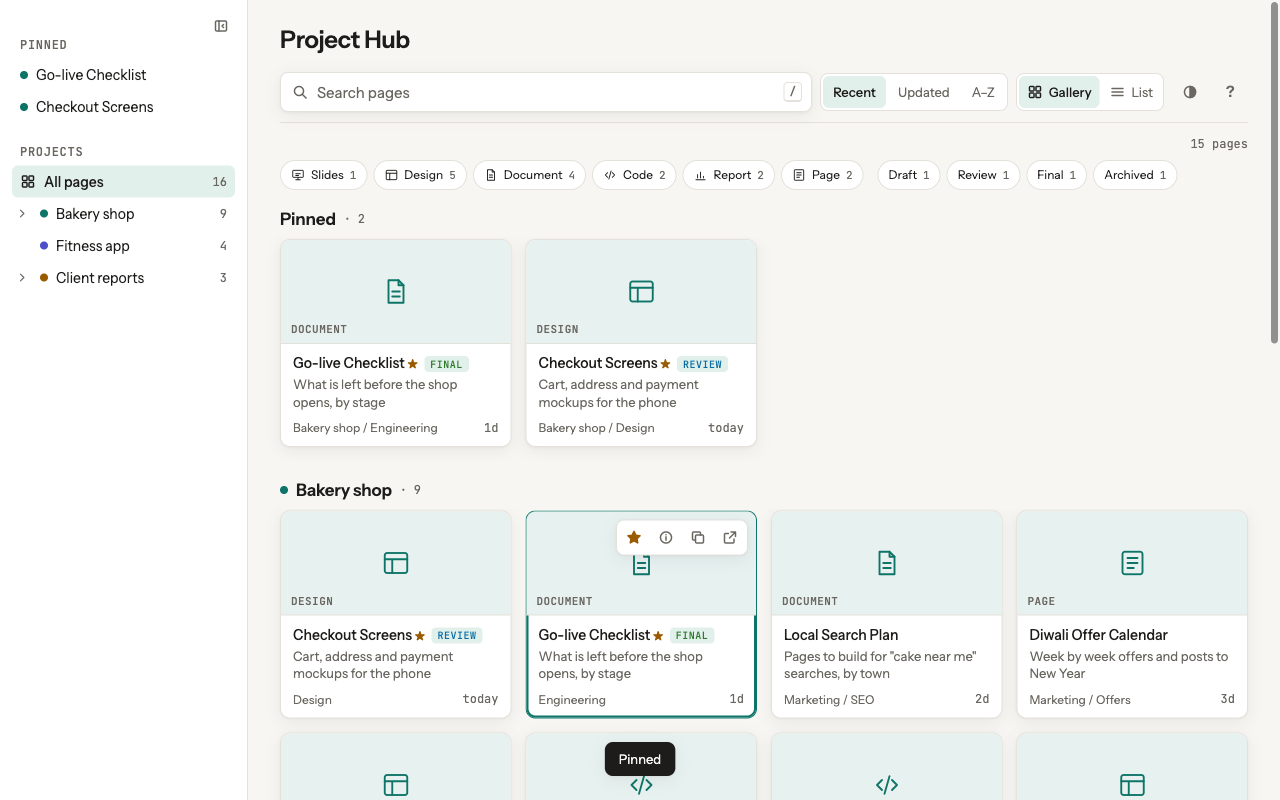
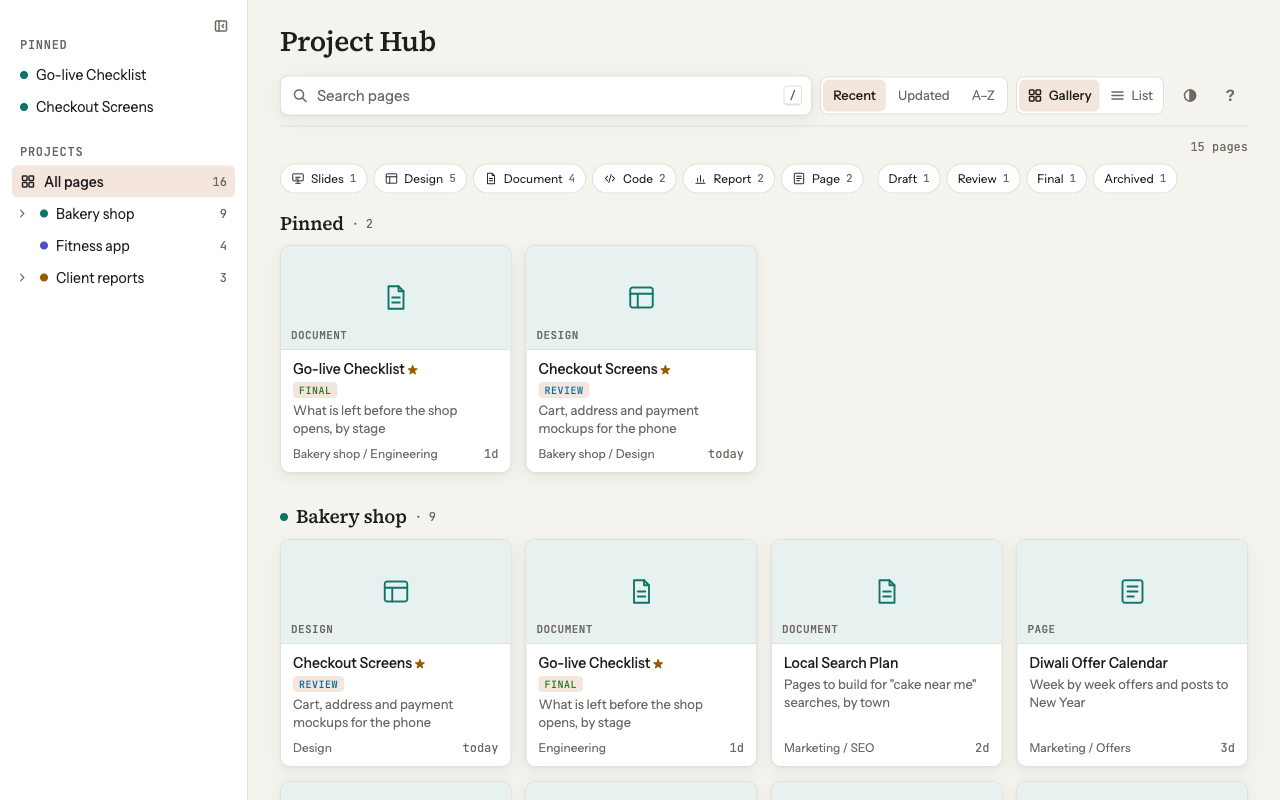
Match Claude is the default look; README screenshots retaken in it
LOOK_DEFAULT = 'claude'. The hub look stays one click away under ? -> Look.
docs/*.png retaken from the example data in the new default, light and
dark, desktop and phone. CHANGELOG 1.5.2 reworded.

diff --git a/skills/hub/template.html b/skills/hub/template.html
@@ -1205,7 +1205,7 @@ button.lnk:hover { text-decoration: underline; }
     folded = on; app.classList.toggle('folded', on); if (save) setRaw(K.side, on ? 'closed' : 'open');
     each('[data-menu]', function (b) { b.setAttribute('aria-expanded', String(!on)); });
   }
-  var LOOK_DEFAULT = 'hub'; // 'hub' (warm paper, teal) or 'claude' (cream, terracotta, serif headings)
+  var LOOK_DEFAULT = 'claude'; // 'claude' (cream, terracotta, serif headings, like claude.ai) or 'hub' (warm paper, teal)
   var look = getRaw(K.look); if (['hub', 'claude'].indexOf(look) < 0) look = LOOK_DEFAULT;
   function applyLook(save) {
     if (look === 'claude') html.setAttribute('data-look', 'claude'); else html.removeAttribute('data-look');

diff --git a/CHANGELOG.md b/CHANGELOG.md
@@ -2,10 +2,10 @@
 
 ## 1.5.2
 
-- A second look, "Match Claude": the cream, charcoal and terracotta of claude.ai, with
-  serif headings. Pick it under `?` → Look; remembered in the browser
-  (`project-hub.look.v1`). Project colours stay the same in both looks. The default is
-  still the hub's own look (warm paper, teal).
+- A new default look that matches claude.ai: cream background, charcoal text, terracotta
+  accent, serif headings, in light and dark. The hub's own look (warm paper, teal) is
+  still there under `?` → Look; the choice is remembered in the browser
+  (`project-hub.look.v1`). Project colours are the same in both looks.
 
 ## 1.5.1
 

diff --git a/README.md b/README.md
@@ -14,7 +14,7 @@ A Claude Code plugin. The moment a page is published, its link is saved on your 
 
 ![Project Hub in the gallery view: a folder tree on the left, pinned pages first, then each project's pages as cards with a drawn cover, a status label and the folder](docs/hub.png)
 
-<sub>Example data. Covers are drawn from each page's kind, never screenshots.</sub>
+<sub>Example data, in the default look that matches claude.ai; a second look (warm paper, teal) is one click away under <code>?</code>. Covers are drawn from each page's kind, never screenshots.</sub>
 
 </div>
 
